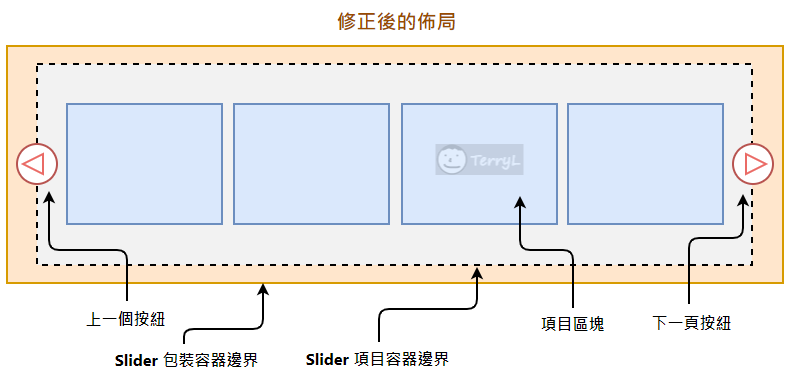
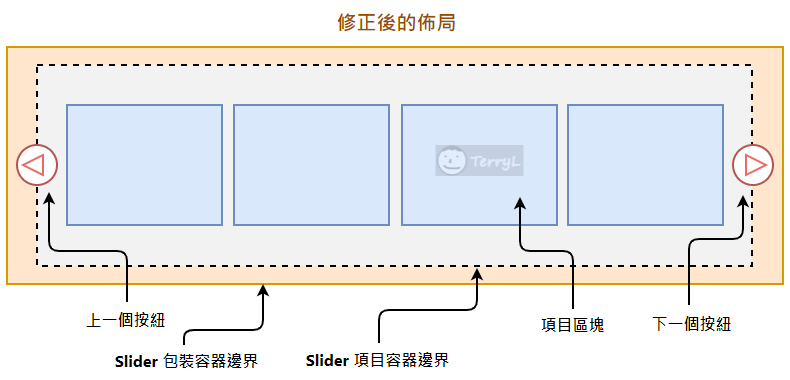
Add day 11 examples.

diff --git a/demo/day11/style.css b/demo/day11/style.css
@@ -1,0 +1,76 @@
+.slider-wrapper {
+    width: 800px;
+    margin: 0 auto;
+    border: 2px dashed #aaaaaa;
+    position: relative;
+}
+
+/* 以下省略 */
+
+.slider-inner {
+    width: 100%;
+    display: flex;
+    overflow: hidden;
+}
+
+.slider-inner .item {
+    flex-basis: 25%;
+}
+
+.slider-inner .item > img {
+    width: 100%;
+}
+
+.slider-button {
+    display: inline-block;
+    overflow: hidden;
+    width: 32px;
+    height: 32px;
+    border-radius: 50%;
+    background-color: #dddddd;
+}
+
+/* 以上省略 */
+
+.previous,
+.next {
+    position: absolute;
+    top: calc(50% - 16px);
+    font-size: 0;
+    cursor: pointer;
+}
+
+.previous {
+    left: -16px;
+}
+
+.next {
+    right: -16px;
+}
+
+
+.previous::before {
+    content: ' ';
+    position: absolute;
+    top: 5px;
+    left: 0;
+    width: 0;
+    height: 0;
+    border-left: 10px solid transparent;
+    border-right: 10px solid #222;;
+    border-top: 10px solid transparent;
+    border-bottom: 10px solid transparent;
+}
+
+.next::before {
+    content: ' ';
+    position: absolute;
+    top: 5px;
+    right: 0;
+    width: 0;
+    height: 0;
+    border-left: 10px solid #222;;
+    border-right: 10px solid transparent;
+    border-top: 10px solid transparent;
+    border-bottom: 10px solid transparent;
+}

diff --git a/day11_3.html b/day11_3.html
@@ -1,0 +1,27 @@
+<!Doctype html>
+<html>
+<head>
+    <title>2022 鐵人賽 Day 11-1</title>
+    <link rel="stylesheet" href="./demo/day11/style.css">
+</head>
+<body>
+    <div class="slider-wrapper">
+        <div class="slider-inner">
+            <div class="item">
+                <img src="./demo/pics/1.jpg" />
+            </div>
+            <div class="item">
+                <img src="./demo/pics/2.jpg" />
+            </div>
+            <div class="item">
+                <img src="./demo/pics/3.jpg" />
+            </div>
+            <div class="item">
+                <img src="./demo/pics/4.jpg" />
+            </div>
+        </div>
+        <div class="slider-button previous" onclick="alert('我按了上一個按紐');">上一個</div>
+        <div class="slider-button next" onclick="alert('我按了下一個按紐');">下一個</div>
+    </div>
+</body>
+</html>

diff --git a/day11_1.html b/day11_1.html
@@ -1,0 +1,27 @@
+<!Doctype html>
+<html>
+<head>
+    <title>2022 鐵人賽 Day 11-1</title>
+    <link rel="stylesheet" href="./demo/day11/style.css">
+</head>
+<body>
+    <div class="slider-wrapper">
+        <div class="slider-inner">
+            <div class="item">
+                <img src="./demo/pics/1.jpg" />
+            </div>
+            <div class="item">
+                <img src="./demo/pics/2.jpg" />
+            </div>
+            <div class="item">
+                <img src="./demo/pics/3.jpg" />
+            </div>
+            <div class="item">
+                <img src="./demo/pics/4.jpg" />
+            </div>
+        </div>
+        <div class="slider-button previous" onclick="alert('按了上一個按紐');">上一個</div>
+        <div class="slider-button next" onclick="alert('按了下一個按紐');">下一個</div>
+    </div>
+</body>
+</html>

diff --git a/day11_0.html b/day11_0.html
@@ -1,0 +1,27 @@
+<!Doctype html>
+<html>
+<head>
+    <title>2022 鐵人賽 Day 11 準備</title>
+    <link rel="stylesheet" href="./demo/day11/style.css">
+</head>
+<body>
+    <div class="slider-wrapper">
+        <div class="slider-inner">
+            <div class="item">
+                <img src="./demo/pics/1.jpg" />
+            </div>
+            <div class="item">
+                <img src="./demo/pics/2.jpg" />
+            </div>
+            <div class="item">
+                <img src="./demo/pics/3.jpg" />
+            </div>
+            <div class="item">
+                <img src="./demo/pics/4.jpg" />
+            </div>
+        </div>
+        <div class="slider-button previous">上一個</div>
+        <div class="slider-button next">下一個</div>
+    </div>
+</body>
+</html>
